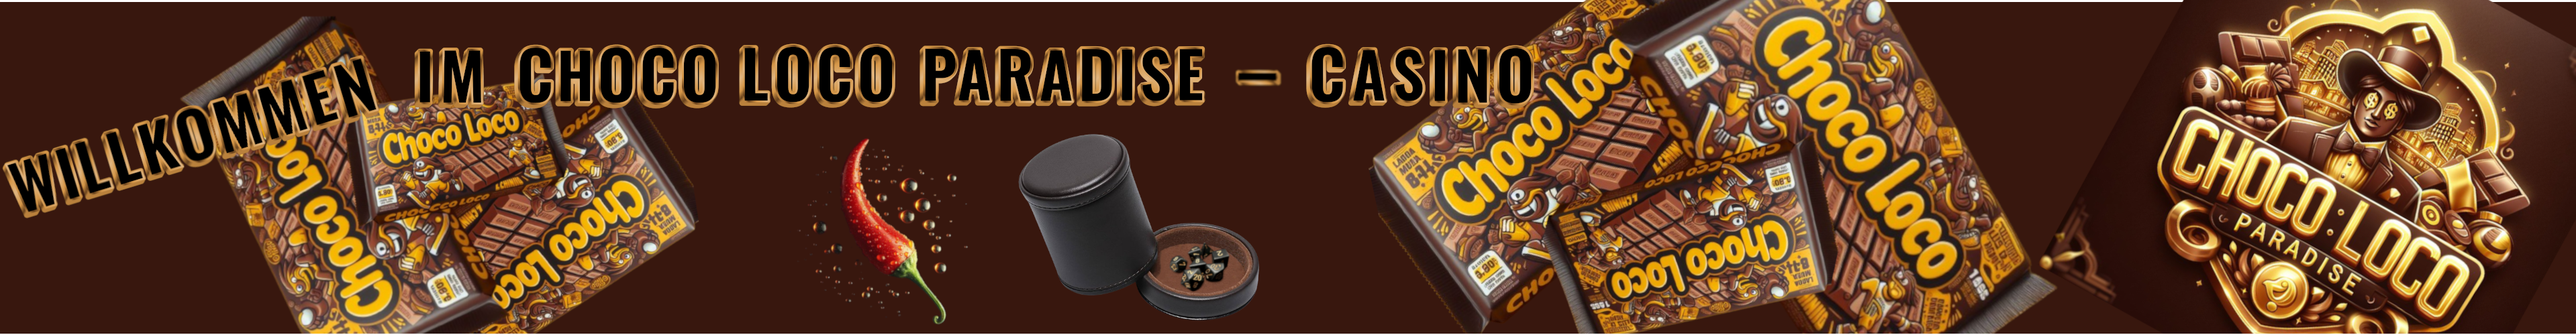
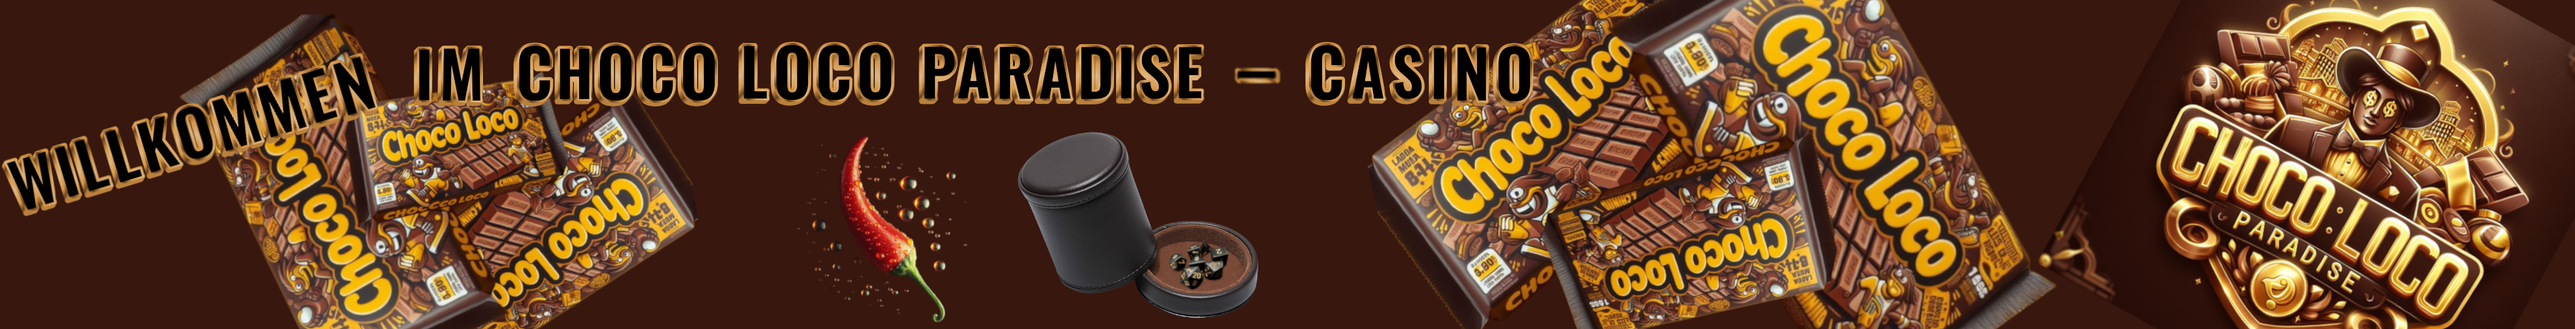
render second finish

diff --git a/public/index.html b/public/index.html
@@ -52,7 +52,7 @@
     </header>
     <div class="slideshow-container">
         <div class="mySlides fade">
-          <img src="./assets/diashow_picture_welcome2.png">
+          <img src="./assets/diashow_picture_welcome.png">
         </div>
       
         <div class="mySlides fade">

diff --git a/index.js b/index.js
@@ -115,7 +115,7 @@ app.get('/register/:username/:password', (req, res) => {
       }))
     })
   }else {
-    console.log("already")
+    console.log("already: " + IPreq)
     res.send(JSON.stringify({
       message: 'Zu viele Anmeldungen mit dieser IP!'
     }))
